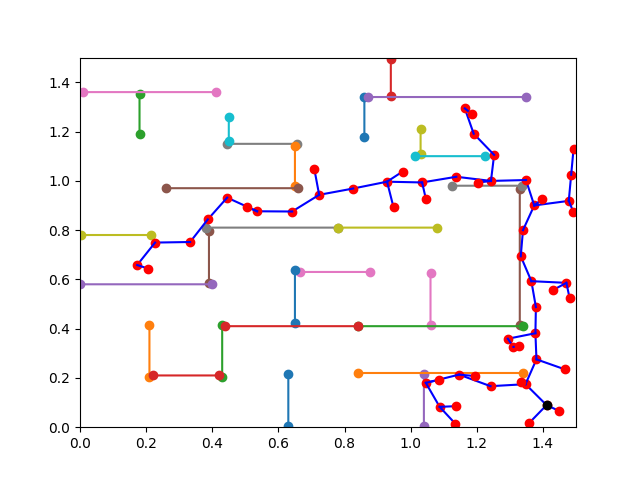
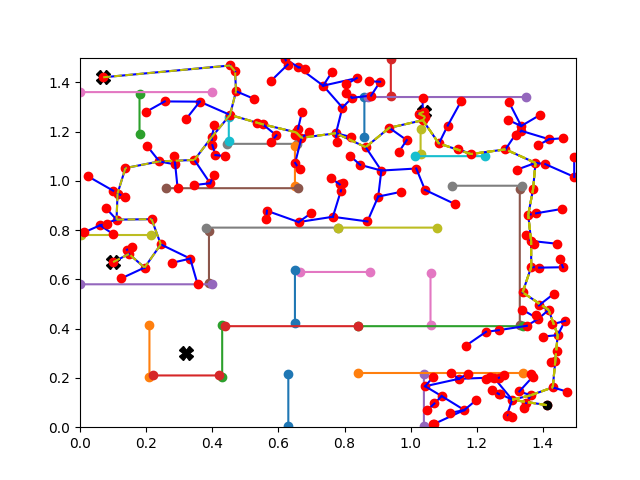
added path retrieval for each goal

diff --git a/controllers/controller_base/controller_base.py b/controllers/controller_base/controller_base.py
@@ -24,11 +24,7 @@ robot = supervisor.supervisor
 timestep = int(robot.getBasicTimeStep())
 
 #positions of obstacles x y 
-rubber_duck1 = [0.07, 0.95] 
-rubber_duck2 = [0.79, -0.03]
-rubber_duck3 = [-0.150001, 0.58]
-soda_can = [-0.18, -0.17]
-targets = [rubber_duck1, rubber_duck2, rubber_duck3, soda_can]
+TARGETS = supervisor.supervisor_get_targets()
 
 # Robot Pose Values
 pose_x = 0
@@ -122,14 +118,17 @@ def get_wheel_speeds(target_pose):
     return phi_l_pct, phi_r_pct
     
 
-def visualize_2D_graph(state_bounds, line_segments, nodes, targets, goal_point=None, filename=None):
+def visualize_2D_graph(state_bounds, line_segments, nodes, goals, paths, filename=None):
+    global TARGETS
     fig = plt.figure()
     plt.xlim(state_bounds[0,0], state_bounds[0,1])
     plt.ylim(state_bounds[1,0], state_bounds[1,1])
     t = 1.5
-    for targ in targets:
-        x,y = targ[0]+0.25,targ[1]+0.25
-        plt.plot(x, 1.5-y, 'kX', markersize=15)
+    goal_point=None
+    
+    for targ in TARGETS:
+        x,y = targ[0],targ[1]
+        plt.plot(x, t-y, 'kX', markersize=10)
         
     for seg in line_segments:
         [x1,y1], [x2,y2] = seg
@@ -146,16 +145,19 @@ def visualize_2D_graph(state_bounds, line_segments, nodes, targets, goal_point=N
             plt.plot(node.point[0], t - node.point[1], 'ro')
 
     plt.plot(nodes[0].point[0], t - nodes[0].point[1], 'ko')
-
-    if goal_node is not None:
-        cur_node = goal_node
-        while cur_node is not None:
-            if cur_node.parent is not None:
-                node_path = np.array(cur_node.path_from_parent)
-                plt.plot(node_path[:,0], t - node_path[:,1], '--y')
-                cur_node = cur_node.parent
-            else:
-                break
+    
+    if goals is not None:
+        for goal_node in goals:
+            cur_node = goal_node
+            while cur_node is not None:
+                if cur_node.parent is not None:
+                    node_path = np.array(cur_node.path_from_parent)
+                    plt.plot(node_path[:,0], t - node_path[:,1], '--y')
+                
+                if cur_node in paths:
+                    cur_node = paths[cur_node]
+                else:
+                    cur_node = None
 
     if goal_point is not None:
         plt.plot(goal_point[0], goal_point[1], 'gx')
@@ -240,96 +242,81 @@ def build_rrt(state_bounds, obstacles, state_is_valid, starting_point, goal_poin
         # add if path is clear
         if not has_obstacle:
             node_list.append(
-                Node(to_point, parent=node_list[-1], path_from_parent=[from_point, to_point])
+                Node(to_point, parent=q_near, path_from_parent=[from_point, to_point])
             )
 
     return node_list
-
-
-def get_neighbors(node_list, cur_node):
-    neighbors = []
-    for node in node_list:
-        if node.parent == cur_node:
-            neighbors.append(node)
-            
-    neighbors.append(cur_node.parent)
-    
-    return neighbors
     
 
 def get_path(node_list, start_node):
-    goals = supervisor.supervisor_get_targets()
-    goal_node = None
-    open_list = [start_node]
-    closed_list = []
-    costs = {start_node:0}
-    path = {start_node:None}
+    global TARGETS
+    goals = TARGETS[:]
+    visited = {start_node:None}
+
     for ix,goal in enumerate(goals):
-        goal_parent = get_nearest_vertex(node_list, goal)
-        goal_node = Node(goal, parent=goal_parent, path_from_parent=[goal_parent, goal])
-        node_list.append(goal_node)
-        goals[ix] = goal_node
+        goal_parent = get_valid_connect(node_list, goal)
+        
+        if goal_parent != -1:
+            goal_node = Node(goal, parent=goal_parent, path_from_parent=[goal, goal_parent.point])
+            node_list.append(goal_node)
+            goals[ix] = goal_node
+        else:
+            goals[ix] = None
+
+    goals = [g for g in goals if g] # remove None
+    for goal in goals:
+        cur_node = goal
+        
+        while cur_node:
+            found = False
+            visited[cur_node] = cur_node.parent
+            cur_node = cur_node.parent
+            
+    return visited, goals
+            
+        
+def get_valid_connect(node_list, q_point):
+    valid_connects = []
+    valid_indices = []
+            
+    for i,node in enumerate(node_list):
+        has_obstacle = False
+        if not state_is_valid(np.array(node.point), np.array(q_point)):
+            has_obstacle = True
+        
+        if not has_obstacle:
+            valid_connects.append(node.point)
+            valid_indices.append(i)
     
-    cur_node = start_node
-    while len(open_list) != 0:
-        neighbors = get_neighbors(node_list, cur_node)
+    if len(valid_connects) > 0:
+        # retrieve minimum distance index
+        index = np.argmin(np.linalg.norm(np.array(valid_connects)-np.array(q_point), axis=1))
         
-        for neighbor in neighbors:
-            if neighbor in closed_list:
-                continue
-            elif neighbor not in open_list:
-                path[neighbor] = cur_node
-                costs[neighbor] = costs[cur_node] + 1
-                open_list.append(neighbor)
-            elif costs[neighbor] < costs[cur_node] + 1:
-                costs[neighbor] = costs[cur_node] + 1
-                path[neighbor] = cur_node
-            
-        closed_list.append(cur_node)
-        open_list.remove(cur_node)
-        open_list = [x for x in open_list if x]
-        
-        min_val = 99999
-        for open_node in open_list:
-            if costs[open_node] < min_val:
-                min_val = costs[open_node]
-                cur_node = open_node
-                
-    return path, goals
-            
-        
+        return node_list[valid_indices[index]]
+    else:
+        return -1
+    
 
-def get_nearest_vertex(node_list, q_point):
-    filtered_node_list = [x.point for x in node_list]
 
-    # retrieve minimum distance index
-    index = np.argmin(np.linalg.norm(filtered_node_list-np.array(q_point), axis=1))
-
-    return node_list[index]
 
 
 def main():
-    global OBSTACLES, LINE_SEGMENTS, targets
+    global OBSTACLES, LINE_SEGMENTS
     # You should insert a getDevice-like function in order to get the
     # instance of a device of the robot. Something like:
     #  motor = robot.getMotor('motorname')
     #  ds = robot.getDistanceSensor('dsname')
     #  ds.enable(timestep)2
-    K = 150 # adjustable
+    K = 500 # adjustable
     start_pose = supervisor.supervisor_get_robot_pose()[:2]
     start_pose+=.25
     starting_point = Node(start_pose[:2], parent=None)
     obsTransform(OBSTACLES)
     node_list = build_rrt(MAP_BOUNDS, OBSTACLES, state_is_valid, starting_point, None, K, np.linalg.norm(MAP_BOUNDS/20.))
-    visualize_2D_graph(MAP_BOUNDS, LINE_SEGMENTS, node_list, None, 'rrt_maze_run.png')
     # pose_x, pose_y, pose_theta = start_pose
-    path, goals = get_path(node_list, starting_point)
-    print("***", path)    
-    print("$$$", goals)
-    g = goals[-1]
-    while g:
-        print(g.point)
-        g = path[g]
+    paths, goals = get_path(node_list, starting_point)
+    
+    visualize_2D_graph(MAP_BOUNDS, LINE_SEGMENTS, node_list, goals, paths, 'rrt_maze_run.png')
     # print(goals[-1].point)
     # g = goals[-1]
     # while path[g] != None:

diff --git a/controllers/controller_base/supervisor.py b/controllers/controller_base/supervisor.py
@@ -67,13 +67,21 @@ def supervisor_get_targets():
     for idx in range(root_children_field.getCount()):
         if root_children_field.getMFNode(idx).getTypeName() == "Can":
             can_node = root_children_field.getMFNode(idx)
-            can_coords = can_node.getField("translation").getSFVec3f()[:2]
+            can_coords = can_node.getField("translation").getSFVec3f()
+            can_coords = [can_coords[0],can_coords[-1]]
         elif root_children_field.getMFNode(idx).getTypeName() == "RubberDuck":
             duck_node = root_children_field.getMFNode(idx)
             duck_coords = duck_node.getField("translation").getSFVec3f()
-            target_collect.append(duck_coords[:2])
+            duck_coords = [duck_coords[0],duck_coords[-1]]
+            target_collect.append(duck_coords)
     
+
     target_collect.append(can_coords)
+    
+    for t in target_collect:
+        t[0] += .25
+        t[1] += .25
+        
     return target_collect
 
 def supervisor_get_target_pose():
